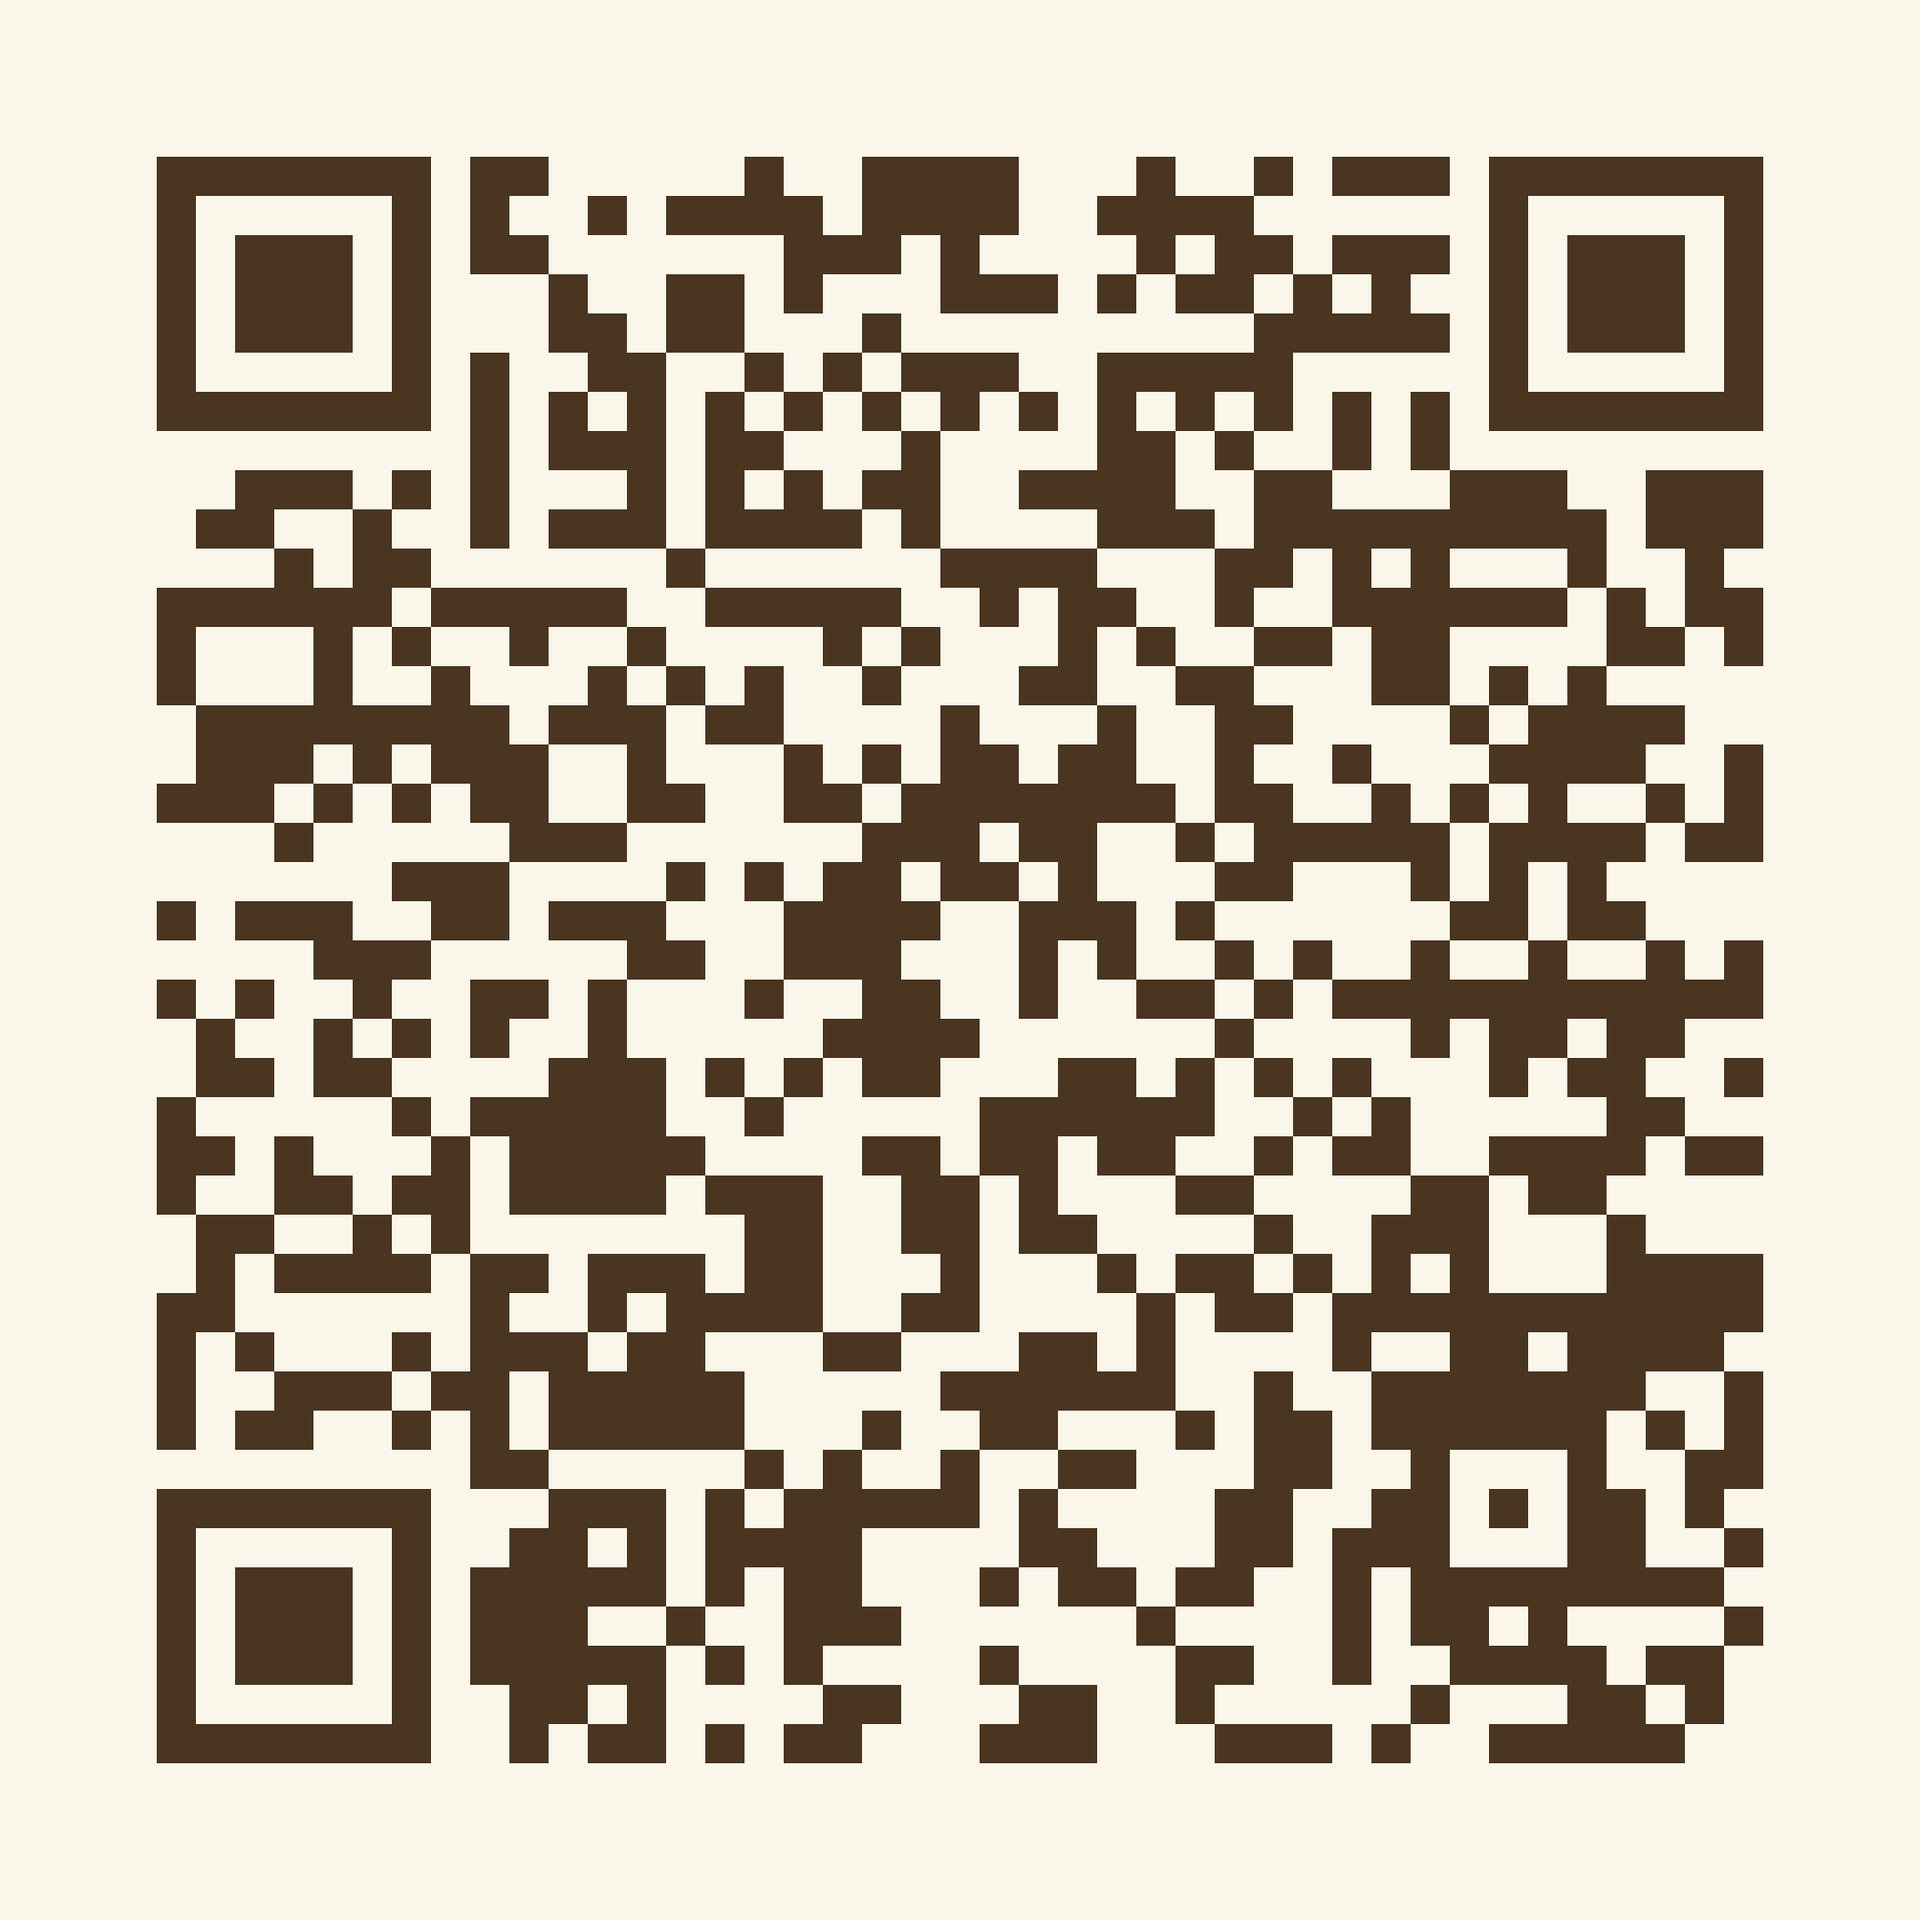
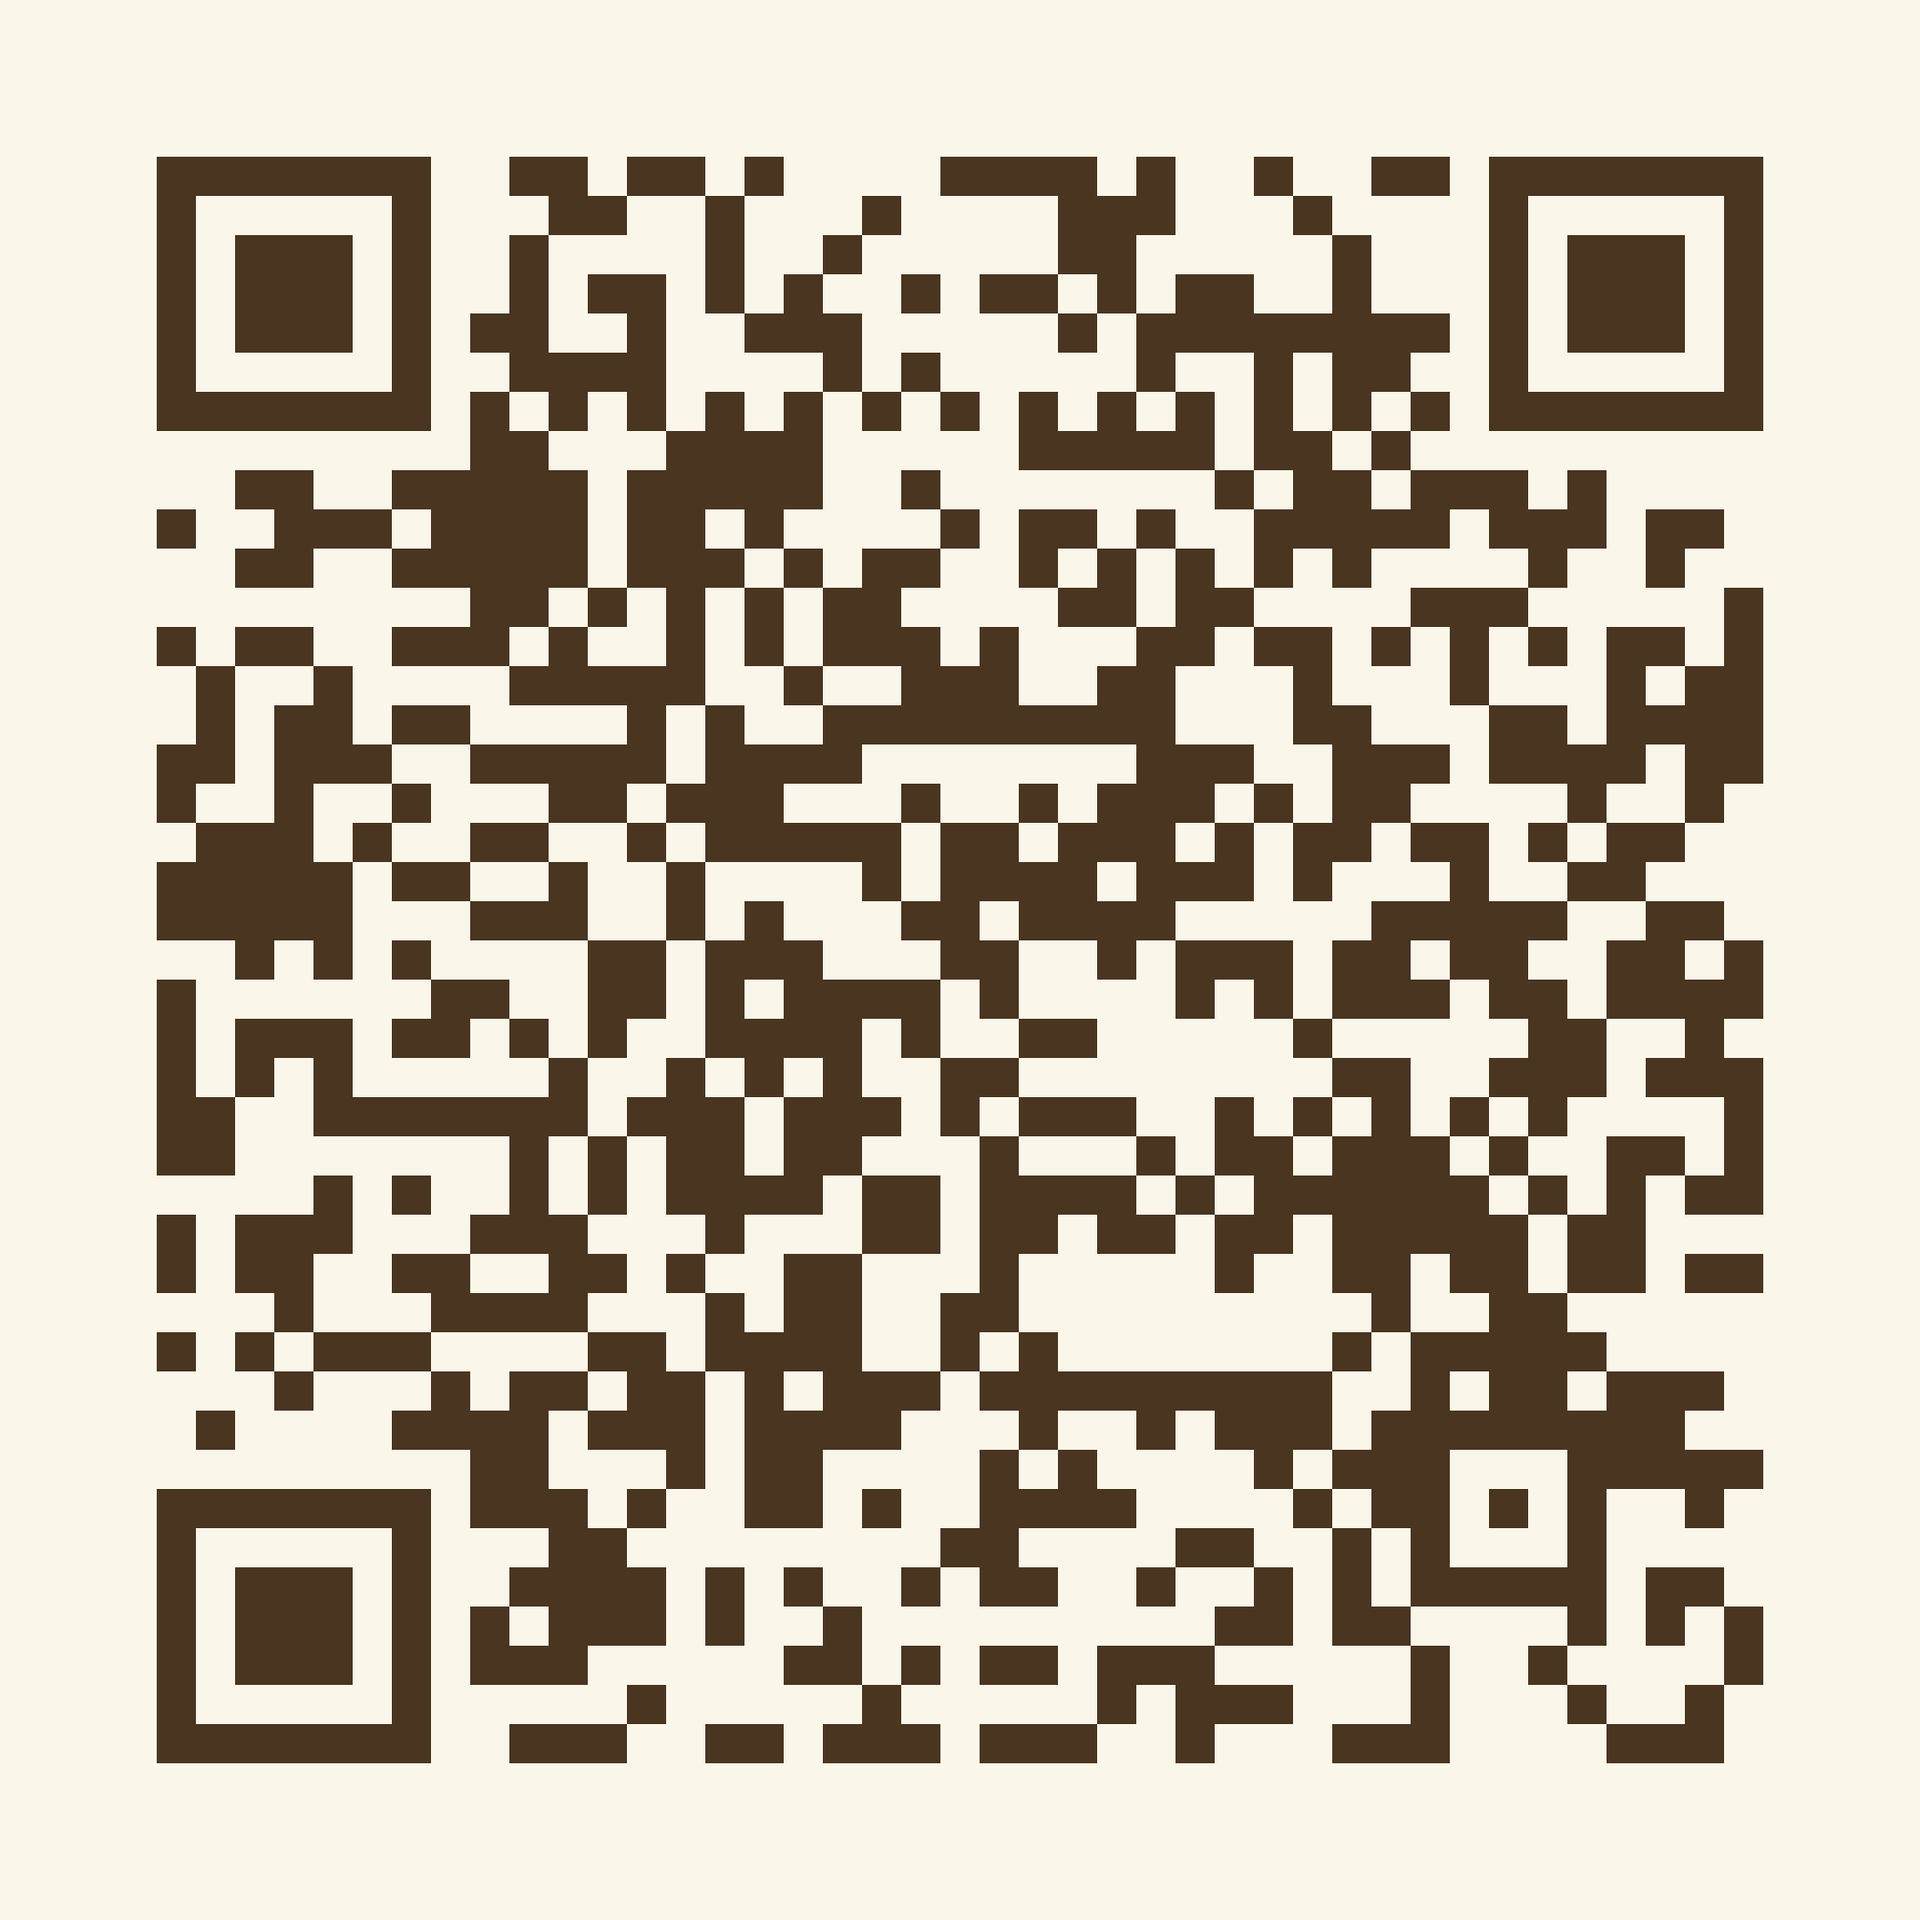
Point QR code at the Netlify site and drop the unused Pages workflow
The site is hosted on Netlify (taylorandaustin.netlify.app), not
GitHub Pages, so the QR code pointed at a URL that was never live.
Regenerate the QR (PNG + SVG) and the printed URL on the card for
the Netlify address, and remove the GitHub Pages deploy workflow
that failed on every push since Pages was never enabled.

Claude-Session: https://claude.ai/code/session_012QsstVwbSc9H2J62RHmP4X

Changed region(s): [[0.0622, 0.0622, 0.9337, 0.9337]]

diff --git a/rsvp-qr.html b/rsvp-qr.html
@@ -87,7 +87,7 @@ body {
   <div class="divider"></div>
   <img class="qr" src="rsvp-qr.svg" alt="QR code linking to the RSVP page">
   <p class="scan">Scan with your phone's camera<br>to respond online</p>
-  <p class="url">ldavis-code.github.io/TaylorandAustin/rsvp.html</p>
+  <p class="url">taylorandaustin.netlify.app/rsvp.html</p>
 </div>
 
 <div class="print-hint">
